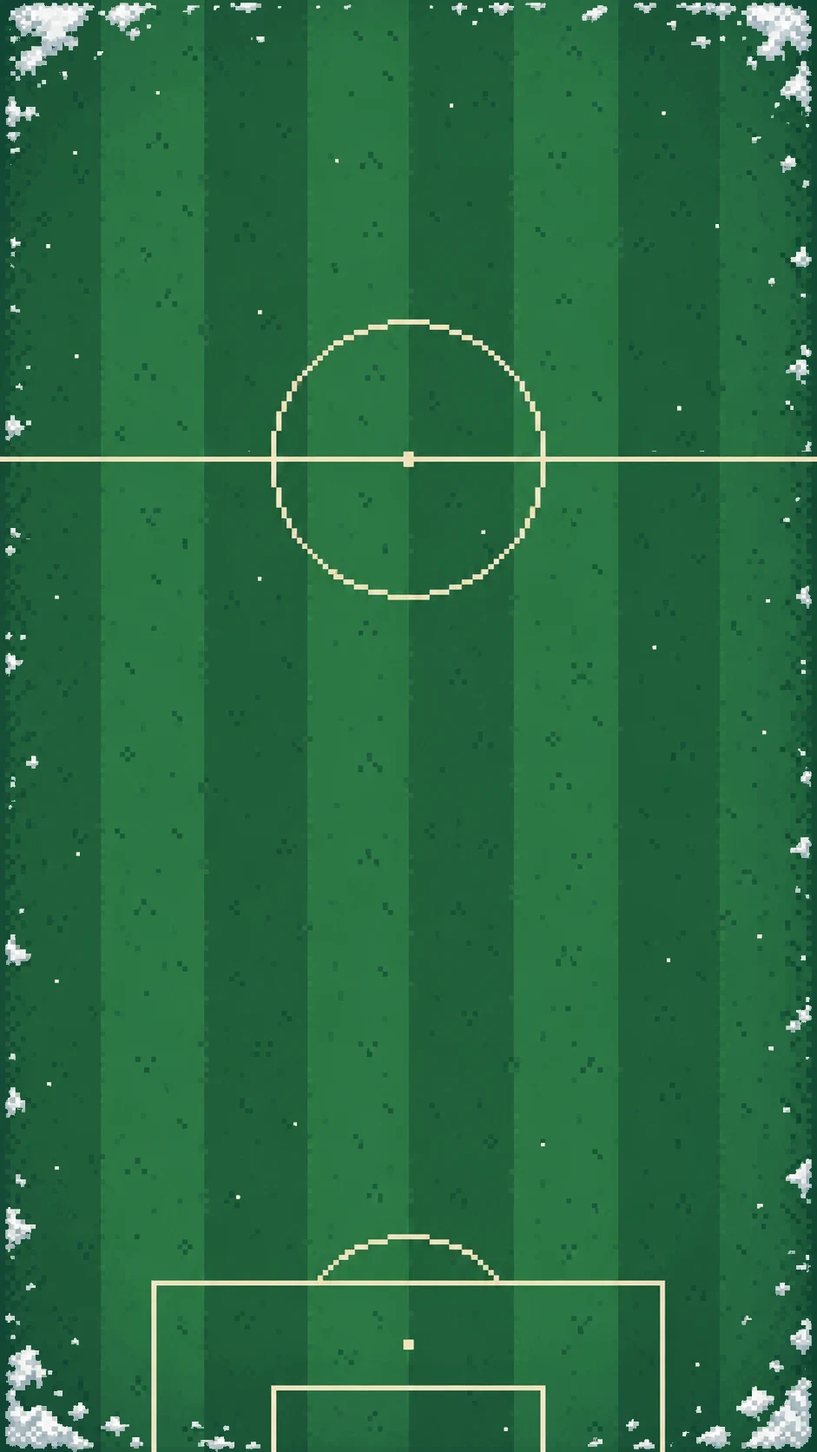
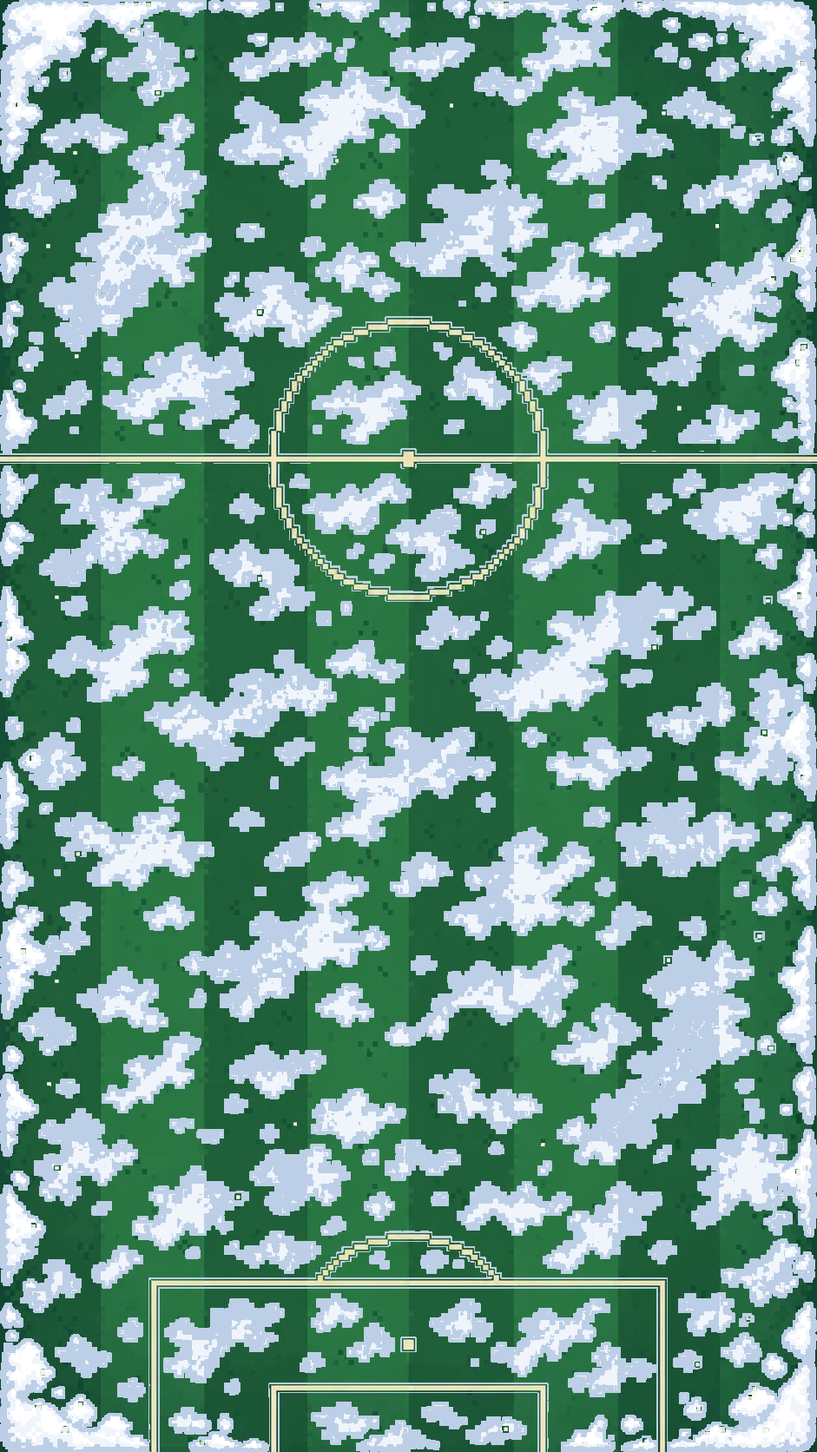
Snowy pitch: new art, default in winter, pick between snowy and plain pitch in Backgrounds
Claude-Session: https://claude.ai/code/session_01B1Ewf1FcmBDPiqTkeHV3Ca

diff --git a/es/index.html b/es/index.html
@@ -7,7 +7,7 @@
   function gtag(){dataLayer.push(arguments);}
   gtag('js', new Date());
 </script>
-<meta charset="utf-8"><meta name="viewport" content="width=device-width,initial-scale=1"><meta name="listdle-verification" content="991c0c59-088a-43e4-ade4-599a885632ee"><script>/* pick the background before first paint, so the old stadium never flashes */(function(){try{var k=new URLSearchParams(location.search).get("bg")||"d-pitch";if(/^[cpsd]-/.test(k)){var d=document.documentElement;d.dataset.bgx=k[0];if(k==="d-pitch"){var t=new Intl.DateTimeFormat("en-CA",{timeZone:"Europe/Amsterdam",year:"numeric",month:"2-digit",day:"2-digit"}).format(new Date()),x=t>="2026-11-24"&&t<="2027-01-06"?"pitch-snow":"pitch";d.style.cssText+=";--w:url(/bg/"+x+"-wide.webp);--t:url(/bg/"+x+"-tall.webp)"}}}catch(e){}})()</script><script>/* Christmas season flag (25 Nov to 6 Jan) */try{var xt=new Intl.DateTimeFormat("en-CA",{timeZone:"Europe/Amsterdam",year:"numeric",month:"2-digit",day:"2-digit"}).format(new Date());if(xt>="2026-11-24"&&xt<="2027-01-06")document.documentElement.classList.add("xm")}catch(e){}</script>
+<meta charset="utf-8"><meta name="viewport" content="width=device-width,initial-scale=1"><meta name="listdle-verification" content="991c0c59-088a-43e4-ade4-599a885632ee"><script>/* pick the background before first paint, so the old stadium never flashes */(function(){try{var k=new URLSearchParams(location.search).get("bg")||"d-pitch";if(/^[cpsd]-/.test(k)){var d=document.documentElement;d.dataset.bgx=k[0];if(k==="d-pitch"){var t=new Intl.DateTimeFormat("en-CA",{timeZone:"Europe/Amsterdam",year:"numeric",month:"2-digit",day:"2-digit"}).format(new Date()),x=t>="2026-11-24"&&t<="2027-01-06"&&localStorage.getItem("uc-pitch")!=="plain"?"pitch-snow":"pitch";d.style.cssText+=";--w:url(/bg/"+x+"-wide.webp);--t:url(/bg/"+x+"-tall.webp)"}}}catch(e){}})()</script><script>/* Christmas season flag (25 Nov to 6 Jan) */try{var xt=new Intl.DateTimeFormat("en-CA",{timeZone:"Europe/Amsterdam",year:"numeric",month:"2-digit",day:"2-digit"}).format(new Date());if(xt>="2026-11-24"&&xt<="2027-01-06")document.documentElement.classList.add("xm")}catch(e){}</script>
 <title>Unicorner – Juego diario de trivia de fútbol | ¿Cuánto sabes de fútbol?</title>
 <meta property="og:type" content="website">
 <meta property="og:site_name" content="Unicorner">
@@ -4379,13 +4379,13 @@ setTimeout(async()=>{if(linkVerify)await linkVerify;renderSlots();syncScore();sy
 const SKY={classic:['linear-gradient(#3f8cff,#9fd2ff)','#5b6a8f','#43a83d'],golden:['linear-gradient(#ff8a50,#ffe0a3)','#8a6a52','#6aa64a'],floodlit:['linear-gradient(#232a6b,#6b3f9a,#ff8f6b)','#4e4f72','#3f9a3a'],night:['linear-gradient(#03061a,#16205a)','#262c45','#2c6e2a'],rain:['linear-gradient(#0d1424,#2c3b55)','#2c3346','#2e5e33'],snow:['linear-gradient(#8c9bb3,#dfe5ee)','#8a91a3','#9fc79a'],neon:['linear-gradient(#12002b,#7a1f8f)','#3d2350','#2a5a3a'],derby:['linear-gradient(#03061a,#16205a)','#4a2430','#2c6e2a'],final:['linear-gradient(#03061a,#16205a)','#5a4a20','#2c6e2a']};
 const LIST=[['classic',L('Classic','Clásico',"Clássico"),0],['golden',L('Golden hour','Hora dorada',"Hora dourada"),1],['floodlit',L('Floodlit evening','Tarde con focos',"Noite com refletores"),3],['night',L('Night match','Partido nocturno',"Jogo noturno"),5],['rain',L('Rainy night','Noche de lluvia',"Noite de chuva"),7],['snow',L('Snow match','Partido con nieve',"Jogo na neve"),10],['neon',L('Unicorn neon','Unicornio neón',"Neon de unicórnio"),15],['derby',L('Derby night','Noche de derbi',"Noite de clássico"),20],['final',L('Cup final','Final de copa',"Final de copa"),30]];
 // more backgrounds (plain colours free; patterns unlock by games played; scenes by best streak): [id, en, es, req, light, css]
-const BGX=[["d-pitch", "Pitch", "Césped", null, 0, "img:pitch"], ["c-cream", "Cream", "Crema", null, 1, "#f3e6bf"], ["c-navy", "Midnight navy", "Azul noche", null, 0, "#12275a"], ["c-pitch", "Pitch green", "Verde césped", null, 0, "#2f7d32"], ["c-red", "Club red", "Rojo club", null, 0, "#a51f27"], ["c-char", "Charcoal", "Carbón", null, 0, "#26232e"], ["c-gold", "Trophy gold", "Oro trofeo", null, 1, "#e0ad2c"], ["p-stripes", "Mowed stripes", "Césped cortado", ["games", 3], 0, "img:pat-mowed-stripes"], ["p-checks", "Cream checks", "Cuadros crema", ["games", 5], 1, "img:pat-cream-checks"], ["p-halftone", "Programme dots", "Puntos de programa", ["games", 10], 1, "img:pat-programme-dots"], ["p-scarf", "Scarf stripes", "Rayas de bufanda", ["games", 15], 0, "img:pat-scarf-stripes"], ["p-grid", "Graph paper", "Papel cuadriculado", ["games", 20], 1, "img:pat-graph-paper"], ["p-tactics", "Tactics board", "Pizarra táctica", ["games", 25], 0, "img:pat-tactics-board"], ["p-terrace", "Concrete terrace", "Grada de cemento", ["games", 30], 0, "img:pat-concrete-terrace"], ["s-sunset", "Stadium sunset", "Estadio al atardecer", ["streak", 2], 0, "img:sunset"], ["s-golden", "Training ground", "Campo de entrenamiento", ["streak", 4], 0, "img:golden"], ["s-rain", "Rainy night", "Noche de lluvia", ["streak", 6], 0, "img:rain"], ["s-snow", "Snow park", "Parque nevado", ["streak", 9], 0, "img:snow"], ["s-floodlit", "Floodlit night", "Noche con focos", ["streak", 12], 0, "img:floodlit"], ["s-street", "Street cage", "Jaula urbana", ["streak", 16], 0, "img:street"], ["s-rooftop", "Rooftop five-a-side", "Fútbol en la azotea", ["streak", 20], 0, "img:rooftop"], ["s-beach", "Beach football", "Fútbol playa", ["streak", 25], 0, "img:beach"], ["s-space", "Space pitch", "Campo espacial", ["streak", 35], 0, "img:space"], ["s-retro", "Retro sunset", "Atardecer retro", ["streak", 50], 0, "img:retro"]];
+const BGX=[["d-pitch", "Pitch", "Césped", null, 0, "img:pitch"], ["d-snow", "Snowy pitch", "Césped nevado", null, 0, "img:pitch-snow"], ["c-cream", "Cream", "Crema", null, 1, "#f3e6bf"], ["c-navy", "Midnight navy", "Azul noche", null, 0, "#12275a"], ["c-pitch", "Pitch green", "Verde césped", null, 0, "#2f7d32"], ["c-red", "Club red", "Rojo club", null, 0, "#a51f27"], ["c-char", "Charcoal", "Carbón", null, 0, "#26232e"], ["c-gold", "Trophy gold", "Oro trofeo", null, 1, "#e0ad2c"], ["p-stripes", "Mowed stripes", "Césped cortado", ["games", 3], 0, "img:pat-mowed-stripes"], ["p-checks", "Cream checks", "Cuadros crema", ["games", 5], 1, "img:pat-cream-checks"], ["p-halftone", "Programme dots", "Puntos de programa", ["games", 10], 1, "img:pat-programme-dots"], ["p-scarf", "Scarf stripes", "Rayas de bufanda", ["games", 15], 0, "img:pat-scarf-stripes"], ["p-grid", "Graph paper", "Papel cuadriculado", ["games", 20], 1, "img:pat-graph-paper"], ["p-tactics", "Tactics board", "Pizarra táctica", ["games", 25], 0, "img:pat-tactics-board"], ["p-terrace", "Concrete terrace", "Grada de cemento", ["games", 30], 0, "img:pat-concrete-terrace"], ["s-sunset", "Stadium sunset", "Estadio al atardecer", ["streak", 2], 0, "img:sunset"], ["s-golden", "Training ground", "Campo de entrenamiento", ["streak", 4], 0, "img:golden"], ["s-rain", "Rainy night", "Noche de lluvia", ["streak", 6], 0, "img:rain"], ["s-snow", "Snow park", "Parque nevado", ["streak", 9], 0, "img:snow"], ["s-floodlit", "Floodlit night", "Noche con focos", ["streak", 12], 0, "img:floodlit"], ["s-street", "Street cage", "Jaula urbana", ["streak", 16], 0, "img:street"], ["s-rooftop", "Rooftop five-a-side", "Fútbol en la azotea", ["streak", 20], 0, "img:rooftop"], ["s-beach", "Beach football", "Fútbol playa", ["streak", 25], 0, "img:beach"], ["s-space", "Space pitch", "Campo espacial", ["streak", 35], 0, "img:space"], ["s-retro", "Retro sunset", "Atardecer retro", ["streak", 50], 0, "img:retro"]];
 // scenes are ChatGPT pictures (bg/NAME-wide.webp and -tall.webp); everything else is plain CSS
 const bgxCss=c=>c.startsWith('img:')?`--w:url(/bg/${c.slice(4)}-wide.webp);--t:url(/bg/${c.slice(4)}-tall.webp)`:'background:'+c;
 const bgxSw=c=>c.startsWith('img:')?`background:#111 url(/bg/${c.slice(4)}-wide.webp) center/cover`:'background:'+c;
 const bgxReq=r=>!r||(r[0]==='games'?kitStats().games:bestStreak())>=r[1];
 const bgxNeed=r=>r[0]==='games'?L(`🎮 ${r[1]} games`,`🎮 ${r[1]} partidas`,`🎮 ${r[1]} jogos`):'<i class="pixel-flame px-inline" aria-hidden="true"></i> '+L(`${r[1]} days`,`${r[1]} días`,`${r[1]} dias`);
-window.ucStageBg=()=>{if(window.__czBg)return `--t:url(${window.__czBg})`;let k='d-pitch';try{k=new URLSearchParams(location.search).get('bg')||ls('uc-bg')||'d-pitch'}catch{}const x=BGX.find(b=>b[0]===k)||BGX[0];return bgxCss(x[5])};
+window.ucStageBg=()=>{if(window.__czBg)return `--t:url(${window.__czBg})`;let k='d-pitch';try{k=new URLSearchParams(location.search).get('bg')||ls('uc-bg')||(typeof XMAS_ON!=='undefined'&&XMAS_ON&&ls('uc-pitch')!=='plain'?'d-snow':'d-pitch')}catch{}const x=BGX.find(b=>b[0]===k)||BGX[0];return bgxCss(x[5])};
 const bgxEl=document.createElement('div');bgxEl.className='bgx';bgxEl.setAttribute('aria-hidden','true');document.querySelector('.scene').after(bgxEl);
 const ls=(k,v)=>{try{if(v===undefined)return localStorage.getItem(k);v==null?localStorage.removeItem(k):localStorage.setItem(k,String(v))}catch{return null}};
 const scene=document.querySelector('.scene'),btn=document.getElementById('stadiumToggle');
@@ -4425,10 +4425,11 @@ window.ucLook=()=>{const st=kitStats();return{kit:UC_KIT?UC_KIT.id:'classic',kit
 let pTab='kits',pkSame=false;
 // favourite kits show first in the Kits tab (saved on this device)
 const kitFavs=()=>{try{const v=JSON.parse(ls('uc-kit-fav')||'[]');return Array.isArray(v)?v:[]}catch{return[]}};
-function apply(){const q=new URLSearchParams(location.search).get('bg');if(!q&&ls('uc-bg'))ls('uc-bg',null);let k=q||'d-pitch';
- if(k!=='classic'&&!q&&!unlocked(k)){ls('uc-bg',null);k='d-pitch'}
+const pitchNow=()=>XMAS_ON&&ls('uc-pitch')!=='plain'?'d-snow':'d-pitch';
+function apply(){const q=new URLSearchParams(location.search).get('bg');if(!q&&ls('uc-bg'))ls('uc-bg',null);let k=q||pitchNow();
+ if(k!=='classic'&&!q&&!unlocked(k)){ls('uc-bg',null);k=pitchNow()}
  const x=BGX.find(b=>b[0]===k),de=document.documentElement;   // a colour, pattern or scene replaces the stadium
- if(x){bgxEl.style.cssText=bgxCss(x[5]);   // cssText: patterns carry background-image/-size after the colour
+ if(x){bgxEl.style.cssText=bgxCss(x[5]);if(x[5].startsWith('img:')){de.style.setProperty('--w',`url(/bg/${x[5].slice(4)}-wide.webp)`);de.style.setProperty('--t',`url(/bg/${x[5].slice(4)}-tall.webp)`)}   // cssText: patterns carry background-image/-size after the colour
   de.dataset.bgx=x[0][0];de.classList.toggle('bg-light',!!x[4]);delete scene.dataset.bg;return}
  bgxEl.style.cssText='';delete de.dataset.bgx;de.classList.remove('bg-light');
  if(k==='classic')delete scene.dataset.bg;else scene.dataset.bg=k}
@@ -4461,7 +4462,7 @@ function openPicker(){const g0=document.querySelector('#st-body .st-grid'),y0=pk
  document.getElementById('st-body').innerHTML=`${close}
   <h2>${L('Pick your background','Elige tu fondo',"Escolha seu fundo")}</h2>${tabs}
   <div class="kit-next ek-note"><h3>${L('Groundworks in progress','Obras en el estadio',"Obras em andamento")}</h3><p>${L("Our groundskeeper got a bit excited with the new lawnmower and flattened every stadium. Only the pitch survived. Shiny new grounds are on the way, we promise. Planning permission pending.","Nuestro jardinero se emocionó con el cortacésped nuevo y se llevó por delante todos los estadios. Solo sobrevivió el césped. Vienen fondos nuevos y mejores, prometido. Falta el permiso de obras.","Nosso jardineiro se empolgou com o cortador de grama novo e achatou todos os estádios. Só o gramado sobreviveu. Estádios novinhos estão a caminho, prometemos. Aguardando alvará.")}</p></div>
-  <div class="st-grid"><button type="button" class="st-tile on" data-st="pick" data-k="d-pitch" aria-label="${L('Pitch, in use','Césped, en uso',"Gramado, em uso")}"><span class="st-sw bgx-sw" style="${bgxSw(px[5]).replace(/"/g,"'")}"></span><span class="st-name">${L('Pitch','Césped',"Gramado")}</span><span class="st-need">${L('✓ In use','✓ En uso',"✓ Em uso")}</span></button></div>`}
+  <div class="st-grid">${(XMAS_ON?['d-snow','d-pitch']:['d-pitch']).map(id=>{const x=BGX.find(t=>t[0]===id),on=id===pitchNow(),n=id==='d-snow'?L('Snowy pitch','Césped nevado',"Gramado com neve"):L('Pitch','Césped',"Gramado");return`<button type="button" class="st-tile${on?' on':''}" data-st="pick" data-k="${id}" aria-label="${n}${on?L(', in use',', en uso',", em uso"):''}"><span class="st-sw bgx-sw" style="${bgxSw(x[5]).replace(/"/g,"'")}"></span><span class="st-name">${n}</span><span class="st-need">${on?L('✓ In use','✓ En uso',"✓ Em uso"):id==='d-snow'?L('Winter only','Solo en invierno',"Só no inverno"):L('All year','Todo el año',"O ano todo")}</span></button>`}).join('')}</div>`}
  {const b=document.getElementById('st-body'),side=document.createElement('div'),main=document.createElement('div');side.className='st-side';main.className='st-main';
   for(const el of [...b.children]){if(el.classList.contains('lg-x'))continue;(el.matches('h2,.pk-tabs,.st-sub,.kit-next,.st-show')?side:main).appendChild(el)}b.append(side,main)}
  if(!dlg.open)dlg.showModal();const g1=document.querySelector('#st-body .st-grid');if(g1)g1.scrollTop=y0;const m1=document.querySelector('#st-body .st-main');if(m1)m1.scrollTop=ym;dlg.scrollTop=d0;track('stadium_open',{best})}
@@ -4475,7 +4476,7 @@ dlg.addEventListener('click',e=>{const b=e.target.closest('[data-st]');if(!b){if
  if(b.dataset.st==='kit'){const k=KITS.find(x=>x.id===b.dataset.k);if(!k)return;if(!kitHas(k,kitStats())){b.animate([{translate:'0'},{translate:'-4px'},{translate:'4px'},{translate:'0'}],{duration:260});return}
   wearKit(k);track('kit_pick',{kit:k.id});pkSame=true;return openPicker()}
  if(b.dataset.st==='pick'){const k=b.dataset.k;if(!unlocked(k)){const x=BGX.find(t=>t[0]===k);showToast(x&&x[3][0]==='games'?L('Keep playing to unlock this one 🎮','Sigue jugando para desbloquear este 🎮',"Continue jogando para desbloquear este 🎮"):L('Keep your streak going to unlock this one 🔥','Mantén tu racha para desbloquear este 🔥',"Mantenha sua sequência para desbloquear este 🔥"));return}
-  ls('uc-bg',k==='d-pitch'?null:k);apply();track('stadium_pick',{bg:k});pkSame=true;openPicker()}});
+  if(k==='d-pitch'||k==='d-snow'){ls('uc-pitch',k==='d-pitch'&&XMAS_ON?'plain':null);ls('uc-bg',null)}else ls('uc-bg',k);apply();track('stadium_pick',{bg:k});pkSame=true;openPicker()}});
 // Kit unlocks get a card pack on the results screen. Each kit has an answer level (same names and colours as scoring).
 const KLV={'xm-reindeer':0,'xm-jumper':1,'xm-snowman':2,'xm-tree':3,'xm-star':3,'xm-santa':4,'hw-stripes':0,'hw-candy':1,'hw-night':2,'hw-slime':3,'hw-skeleton':3,'hw-lantern':4,stripes:0,hoops:0,ref:0,candy:0,keeper:0,sash:1,halves:1,night:1,pin:1,quarters:1,fire:1,shadow:4,checks:2,hat3:2,dots:2,toxic:2,ice:2,perfect:2,leopard:3,zebra:3,galaxy:3,ocean:3,sunset:3,camo:3,lava:3,chrome:4,rainbow:4,tiedye:4,gold:4,mud:0,bee:0,tartan:1,retro:1,straw:2,aurora:3,matrix:3,glitch:3,royal:4,goat:4};
 const KLC=TIER_COLS.concat('#ff7ac8'),KLN=TIERS.map(t=>t[1]).concat('Mythic');window.ucKitInfo={KLV,KLC,KLN};

diff --git a/pt/index.html b/pt/index.html
@@ -7,7 +7,7 @@
   function gtag(){dataLayer.push(arguments);}
   gtag('js', new Date());
 </script>
-<meta charset="utf-8"><meta name="viewport" content="width=device-width,initial-scale=1"><meta name="listdle-verification" content="991c0c59-088a-43e4-ade4-599a885632ee"><script>/* pick the background before first paint, so the old stadium never flashes */(function(){try{var k=new URLSearchParams(location.search).get("bg")||"d-pitch";if(/^[cpsd]-/.test(k)){var d=document.documentElement;d.dataset.bgx=k[0];if(k==="d-pitch"){var t=new Intl.DateTimeFormat("en-CA",{timeZone:"Europe/Amsterdam",year:"numeric",month:"2-digit",day:"2-digit"}).format(new Date()),x=t>="2026-11-24"&&t<="2027-01-06"?"pitch-snow":"pitch";d.style.cssText+=";--w:url(/bg/"+x+"-wide.webp);--t:url(/bg/"+x+"-tall.webp)"}}}catch(e){}})()</script><script>/* Christmas season flag (25 Nov to 6 Jan) */try{var xt=new Intl.DateTimeFormat("en-CA",{timeZone:"Europe/Amsterdam",year:"numeric",month:"2-digit",day:"2-digit"}).format(new Date());if(xt>="2026-11-24"&&xt<="2027-01-06")document.documentElement.classList.add("xm")}catch(e){}</script>
+<meta charset="utf-8"><meta name="viewport" content="width=device-width,initial-scale=1"><meta name="listdle-verification" content="991c0c59-088a-43e4-ade4-599a885632ee"><script>/* pick the background before first paint, so the old stadium never flashes */(function(){try{var k=new URLSearchParams(location.search).get("bg")||"d-pitch";if(/^[cpsd]-/.test(k)){var d=document.documentElement;d.dataset.bgx=k[0];if(k==="d-pitch"){var t=new Intl.DateTimeFormat("en-CA",{timeZone:"Europe/Amsterdam",year:"numeric",month:"2-digit",day:"2-digit"}).format(new Date()),x=t>="2026-11-24"&&t<="2027-01-06"&&localStorage.getItem("uc-pitch")!=="plain"?"pitch-snow":"pitch";d.style.cssText+=";--w:url(/bg/"+x+"-wide.webp);--t:url(/bg/"+x+"-tall.webp)"}}}catch(e){}})()</script><script>/* Christmas season flag (25 Nov to 6 Jan) */try{var xt=new Intl.DateTimeFormat("en-CA",{timeZone:"Europe/Amsterdam",year:"numeric",month:"2-digit",day:"2-digit"}).format(new Date());if(xt>="2026-11-24"&&xt<="2027-01-06")document.documentElement.classList.add("xm")}catch(e){}</script>
 <title>Unicorner – Quiz diário de futebol | Quanto você entende de bola?</title>
 <meta property="og:type" content="website">
 <meta property="og:site_name" content="Unicorner">
@@ -4379,13 +4379,13 @@ setTimeout(async()=>{if(linkVerify)await linkVerify;renderSlots();syncScore();sy
 const SKY={classic:['linear-gradient(#3f8cff,#9fd2ff)','#5b6a8f','#43a83d'],golden:['linear-gradient(#ff8a50,#ffe0a3)','#8a6a52','#6aa64a'],floodlit:['linear-gradient(#232a6b,#6b3f9a,#ff8f6b)','#4e4f72','#3f9a3a'],night:['linear-gradient(#03061a,#16205a)','#262c45','#2c6e2a'],rain:['linear-gradient(#0d1424,#2c3b55)','#2c3346','#2e5e33'],snow:['linear-gradient(#8c9bb3,#dfe5ee)','#8a91a3','#9fc79a'],neon:['linear-gradient(#12002b,#7a1f8f)','#3d2350','#2a5a3a'],derby:['linear-gradient(#03061a,#16205a)','#4a2430','#2c6e2a'],final:['linear-gradient(#03061a,#16205a)','#5a4a20','#2c6e2a']};
 const LIST=[['classic',L('Classic','Clásico',"Clássico"),0],['golden',L('Golden hour','Hora dorada',"Hora dourada"),1],['floodlit',L('Floodlit evening','Tarde con focos',"Noite com refletores"),3],['night',L('Night match','Partido nocturno',"Jogo noturno"),5],['rain',L('Rainy night','Noche de lluvia',"Noite de chuva"),7],['snow',L('Snow match','Partido con nieve',"Jogo na neve"),10],['neon',L('Unicorn neon','Unicornio neón',"Neon de unicórnio"),15],['derby',L('Derby night','Noche de derbi',"Noite de clássico"),20],['final',L('Cup final','Final de copa',"Final de copa"),30]];
 // more backgrounds (plain colours free; patterns unlock by games played; scenes by best streak): [id, en, es, req, light, css]
-const BGX=[["d-pitch", "Pitch", "Césped", null, 0, "img:pitch"], ["c-cream", "Cream", "Crema", null, 1, "#f3e6bf"], ["c-navy", "Midnight navy", "Azul noche", null, 0, "#12275a"], ["c-pitch", "Pitch green", "Verde césped", null, 0, "#2f7d32"], ["c-red", "Club red", "Rojo club", null, 0, "#a51f27"], ["c-char", "Charcoal", "Carbón", null, 0, "#26232e"], ["c-gold", "Trophy gold", "Oro trofeo", null, 1, "#e0ad2c"], ["p-stripes", "Mowed stripes", "Césped cortado", ["games", 3], 0, "img:pat-mowed-stripes"], ["p-checks", "Cream checks", "Cuadros crema", ["games", 5], 1, "img:pat-cream-checks"], ["p-halftone", "Programme dots", "Puntos de programa", ["games", 10], 1, "img:pat-programme-dots"], ["p-scarf", "Scarf stripes", "Rayas de bufanda", ["games", 15], 0, "img:pat-scarf-stripes"], ["p-grid", "Graph paper", "Papel cuadriculado", ["games", 20], 1, "img:pat-graph-paper"], ["p-tactics", "Tactics board", "Pizarra táctica", ["games", 25], 0, "img:pat-tactics-board"], ["p-terrace", "Concrete terrace", "Grada de cemento", ["games", 30], 0, "img:pat-concrete-terrace"], ["s-sunset", "Stadium sunset", "Estadio al atardecer", ["streak", 2], 0, "img:sunset"], ["s-golden", "Training ground", "Campo de entrenamiento", ["streak", 4], 0, "img:golden"], ["s-rain", "Rainy night", "Noche de lluvia", ["streak", 6], 0, "img:rain"], ["s-snow", "Snow park", "Parque nevado", ["streak", 9], 0, "img:snow"], ["s-floodlit", "Floodlit night", "Noche con focos", ["streak", 12], 0, "img:floodlit"], ["s-street", "Street cage", "Jaula urbana", ["streak", 16], 0, "img:street"], ["s-rooftop", "Rooftop five-a-side", "Fútbol en la azotea", ["streak", 20], 0, "img:rooftop"], ["s-beach", "Beach football", "Fútbol playa", ["streak", 25], 0, "img:beach"], ["s-space", "Space pitch", "Campo espacial", ["streak", 35], 0, "img:space"], ["s-retro", "Retro sunset", "Atardecer retro", ["streak", 50], 0, "img:retro"]];
+const BGX=[["d-pitch", "Pitch", "Césped", null, 0, "img:pitch"], ["d-snow", "Snowy pitch", "Césped nevado", null, 0, "img:pitch-snow"], ["c-cream", "Cream", "Crema", null, 1, "#f3e6bf"], ["c-navy", "Midnight navy", "Azul noche", null, 0, "#12275a"], ["c-pitch", "Pitch green", "Verde césped", null, 0, "#2f7d32"], ["c-red", "Club red", "Rojo club", null, 0, "#a51f27"], ["c-char", "Charcoal", "Carbón", null, 0, "#26232e"], ["c-gold", "Trophy gold", "Oro trofeo", null, 1, "#e0ad2c"], ["p-stripes", "Mowed stripes", "Césped cortado", ["games", 3], 0, "img:pat-mowed-stripes"], ["p-checks", "Cream checks", "Cuadros crema", ["games", 5], 1, "img:pat-cream-checks"], ["p-halftone", "Programme dots", "Puntos de programa", ["games", 10], 1, "img:pat-programme-dots"], ["p-scarf", "Scarf stripes", "Rayas de bufanda", ["games", 15], 0, "img:pat-scarf-stripes"], ["p-grid", "Graph paper", "Papel cuadriculado", ["games", 20], 1, "img:pat-graph-paper"], ["p-tactics", "Tactics board", "Pizarra táctica", ["games", 25], 0, "img:pat-tactics-board"], ["p-terrace", "Concrete terrace", "Grada de cemento", ["games", 30], 0, "img:pat-concrete-terrace"], ["s-sunset", "Stadium sunset", "Estadio al atardecer", ["streak", 2], 0, "img:sunset"], ["s-golden", "Training ground", "Campo de entrenamiento", ["streak", 4], 0, "img:golden"], ["s-rain", "Rainy night", "Noche de lluvia", ["streak", 6], 0, "img:rain"], ["s-snow", "Snow park", "Parque nevado", ["streak", 9], 0, "img:snow"], ["s-floodlit", "Floodlit night", "Noche con focos", ["streak", 12], 0, "img:floodlit"], ["s-street", "Street cage", "Jaula urbana", ["streak", 16], 0, "img:street"], ["s-rooftop", "Rooftop five-a-side", "Fútbol en la azotea", ["streak", 20], 0, "img:rooftop"], ["s-beach", "Beach football", "Fútbol playa", ["streak", 25], 0, "img:beach"], ["s-space", "Space pitch", "Campo espacial", ["streak", 35], 0, "img:space"], ["s-retro", "Retro sunset", "Atardecer retro", ["streak", 50], 0, "img:retro"]];
 // scenes are ChatGPT pictures (bg/NAME-wide.webp and -tall.webp); everything else is plain CSS
 const bgxCss=c=>c.startsWith('img:')?`--w:url(/bg/${c.slice(4)}-wide.webp);--t:url(/bg/${c.slice(4)}-tall.webp)`:'background:'+c;
 const bgxSw=c=>c.startsWith('img:')?`background:#111 url(/bg/${c.slice(4)}-wide.webp) center/cover`:'background:'+c;
 const bgxReq=r=>!r||(r[0]==='games'?kitStats().games:bestStreak())>=r[1];
 const bgxNeed=r=>r[0]==='games'?L(`🎮 ${r[1]} games`,`🎮 ${r[1]} partidas`,`🎮 ${r[1]} jogos`):'<i class="pixel-flame px-inline" aria-hidden="true"></i> '+L(`${r[1]} days`,`${r[1]} días`,`${r[1]} dias`);
-window.ucStageBg=()=>{if(window.__czBg)return `--t:url(${window.__czBg})`;let k='d-pitch';try{k=new URLSearchParams(location.search).get('bg')||ls('uc-bg')||'d-pitch'}catch{}const x=BGX.find(b=>b[0]===k)||BGX[0];return bgxCss(x[5])};
+window.ucStageBg=()=>{if(window.__czBg)return `--t:url(${window.__czBg})`;let k='d-pitch';try{k=new URLSearchParams(location.search).get('bg')||ls('uc-bg')||(typeof XMAS_ON!=='undefined'&&XMAS_ON&&ls('uc-pitch')!=='plain'?'d-snow':'d-pitch')}catch{}const x=BGX.find(b=>b[0]===k)||BGX[0];return bgxCss(x[5])};
 const bgxEl=document.createElement('div');bgxEl.className='bgx';bgxEl.setAttribute('aria-hidden','true');document.querySelector('.scene').after(bgxEl);
 const ls=(k,v)=>{try{if(v===undefined)return localStorage.getItem(k);v==null?localStorage.removeItem(k):localStorage.setItem(k,String(v))}catch{return null}};
 const scene=document.querySelector('.scene'),btn=document.getElementById('stadiumToggle');
@@ -4425,10 +4425,11 @@ window.ucLook=()=>{const st=kitStats();return{kit:UC_KIT?UC_KIT.id:'classic',kit
 let pTab='kits',pkSame=false;
 // favourite kits show first in the Kits tab (saved on this device)
 const kitFavs=()=>{try{const v=JSON.parse(ls('uc-kit-fav')||'[]');return Array.isArray(v)?v:[]}catch{return[]}};
-function apply(){const q=new URLSearchParams(location.search).get('bg');if(!q&&ls('uc-bg'))ls('uc-bg',null);let k=q||'d-pitch';
- if(k!=='classic'&&!q&&!unlocked(k)){ls('uc-bg',null);k='d-pitch'}
+const pitchNow=()=>XMAS_ON&&ls('uc-pitch')!=='plain'?'d-snow':'d-pitch';
+function apply(){const q=new URLSearchParams(location.search).get('bg');if(!q&&ls('uc-bg'))ls('uc-bg',null);let k=q||pitchNow();
+ if(k!=='classic'&&!q&&!unlocked(k)){ls('uc-bg',null);k=pitchNow()}
  const x=BGX.find(b=>b[0]===k),de=document.documentElement;   // a colour, pattern or scene replaces the stadium
- if(x){bgxEl.style.cssText=bgxCss(x[5]);   // cssText: patterns carry background-image/-size after the colour
+ if(x){bgxEl.style.cssText=bgxCss(x[5]);if(x[5].startsWith('img:')){de.style.setProperty('--w',`url(/bg/${x[5].slice(4)}-wide.webp)`);de.style.setProperty('--t',`url(/bg/${x[5].slice(4)}-tall.webp)`)}   // cssText: patterns carry background-image/-size after the colour
   de.dataset.bgx=x[0][0];de.classList.toggle('bg-light',!!x[4]);delete scene.dataset.bg;return}
  bgxEl.style.cssText='';delete de.dataset.bgx;de.classList.remove('bg-light');
  if(k==='classic')delete scene.dataset.bg;else scene.dataset.bg=k}
@@ -4461,7 +4462,7 @@ function openPicker(){const g0=document.querySelector('#st-body .st-grid'),y0=pk
  document.getElementById('st-body').innerHTML=`${close}
   <h2>${L('Pick your background','Elige tu fondo',"Escolha seu fundo")}</h2>${tabs}
   <div class="kit-next ek-note"><h3>${L('Groundworks in progress','Obras en el estadio',"Obras em andamento")}</h3><p>${L("Our groundskeeper got a bit excited with the new lawnmower and flattened every stadium. Only the pitch survived. Shiny new grounds are on the way, we promise. Planning permission pending.","Nuestro jardinero se emocionó con el cortacésped nuevo y se llevó por delante todos los estadios. Solo sobrevivió el césped. Vienen fondos nuevos y mejores, prometido. Falta el permiso de obras.","Nosso jardineiro se empolgou com o cortador de grama novo e achatou todos os estádios. Só o gramado sobreviveu. Estádios novinhos estão a caminho, prometemos. Aguardando alvará.")}</p></div>
-  <div class="st-grid"><button type="button" class="st-tile on" data-st="pick" data-k="d-pitch" aria-label="${L('Pitch, in use','Césped, en uso',"Gramado, em uso")}"><span class="st-sw bgx-sw" style="${bgxSw(px[5]).replace(/"/g,"'")}"></span><span class="st-name">${L('Pitch','Césped',"Gramado")}</span><span class="st-need">${L('✓ In use','✓ En uso',"✓ Em uso")}</span></button></div>`}
+  <div class="st-grid">${(XMAS_ON?['d-snow','d-pitch']:['d-pitch']).map(id=>{const x=BGX.find(t=>t[0]===id),on=id===pitchNow(),n=id==='d-snow'?L('Snowy pitch','Césped nevado',"Gramado com neve"):L('Pitch','Césped',"Gramado");return`<button type="button" class="st-tile${on?' on':''}" data-st="pick" data-k="${id}" aria-label="${n}${on?L(', in use',', en uso',", em uso"):''}"><span class="st-sw bgx-sw" style="${bgxSw(x[5]).replace(/"/g,"'")}"></span><span class="st-name">${n}</span><span class="st-need">${on?L('✓ In use','✓ En uso',"✓ Em uso"):id==='d-snow'?L('Winter only','Solo en invierno',"Só no inverno"):L('All year','Todo el año',"O ano todo")}</span></button>`}).join('')}</div>`}
  {const b=document.getElementById('st-body'),side=document.createElement('div'),main=document.createElement('div');side.className='st-side';main.className='st-main';
   for(const el of [...b.children]){if(el.classList.contains('lg-x'))continue;(el.matches('h2,.pk-tabs,.st-sub,.kit-next,.st-show')?side:main).appendChild(el)}b.append(side,main)}
  if(!dlg.open)dlg.showModal();const g1=document.querySelector('#st-body .st-grid');if(g1)g1.scrollTop=y0;const m1=document.querySelector('#st-body .st-main');if(m1)m1.scrollTop=ym;dlg.scrollTop=d0;track('stadium_open',{best})}
@@ -4475,7 +4476,7 @@ dlg.addEventListener('click',e=>{const b=e.target.closest('[data-st]');if(!b){if
  if(b.dataset.st==='kit'){const k=KITS.find(x=>x.id===b.dataset.k);if(!k)return;if(!kitHas(k,kitStats())){b.animate([{translate:'0'},{translate:'-4px'},{translate:'4px'},{translate:'0'}],{duration:260});return}
   wearKit(k);track('kit_pick',{kit:k.id});pkSame=true;return openPicker()}
  if(b.dataset.st==='pick'){const k=b.dataset.k;if(!unlocked(k)){const x=BGX.find(t=>t[0]===k);showToast(x&&x[3][0]==='games'?L('Keep playing to unlock this one 🎮','Sigue jugando para desbloquear este 🎮',"Continue jogando para desbloquear este 🎮"):L('Keep your streak going to unlock this one 🔥','Mantén tu racha para desbloquear este 🔥',"Mantenha sua sequência para desbloquear este 🔥"));return}
-  ls('uc-bg',k==='d-pitch'?null:k);apply();track('stadium_pick',{bg:k});pkSame=true;openPicker()}});
+  if(k==='d-pitch'||k==='d-snow'){ls('uc-pitch',k==='d-pitch'&&XMAS_ON?'plain':null);ls('uc-bg',null)}else ls('uc-bg',k);apply();track('stadium_pick',{bg:k});pkSame=true;openPicker()}});
 // Kit unlocks get a card pack on the results screen. Each kit has an answer level (same names and colours as scoring).
 const KLV={'xm-reindeer':0,'xm-jumper':1,'xm-snowman':2,'xm-tree':3,'xm-star':3,'xm-santa':4,'hw-stripes':0,'hw-candy':1,'hw-night':2,'hw-slime':3,'hw-skeleton':3,'hw-lantern':4,stripes:0,hoops:0,ref:0,candy:0,keeper:0,sash:1,halves:1,night:1,pin:1,quarters:1,fire:1,shadow:4,checks:2,hat3:2,dots:2,toxic:2,ice:2,perfect:2,leopard:3,zebra:3,galaxy:3,ocean:3,sunset:3,camo:3,lava:3,chrome:4,rainbow:4,tiedye:4,gold:4,mud:0,bee:0,tartan:1,retro:1,straw:2,aurora:3,matrix:3,glitch:3,royal:4,goat:4};
 const KLC=TIER_COLS.concat('#ff7ac8'),KLN=TIERS.map(t=>t[1]).concat('Mythic');window.ucKitInfo={KLV,KLC,KLN};

diff --git a/index.html b/index.html
@@ -5,7 +5,7 @@
   function gtag(){dataLayer.push(arguments);}
   gtag('js', new Date());
 </script>
-<meta charset="utf-8"><meta name="viewport" content="width=device-width,initial-scale=1"><meta name="listdle-verification" content="991c0c59-088a-43e4-ade4-599a885632ee"><script>/* pick the background before first paint, so the old stadium never flashes */(function(){try{var k=new URLSearchParams(location.search).get("bg")||"d-pitch";if(/^[cpsd]-/.test(k)){var d=document.documentElement;d.dataset.bgx=k[0];if(k==="d-pitch"){var t=new Intl.DateTimeFormat("en-CA",{timeZone:"Europe/Amsterdam",year:"numeric",month:"2-digit",day:"2-digit"}).format(new Date()),x=t>="2026-11-24"&&t<="2027-01-06"?"pitch-snow":"pitch";d.style.cssText+=";--w:url(/bg/"+x+"-wide.webp);--t:url(/bg/"+x+"-tall.webp)"}}}catch(e){}})()</script><script>/* Christmas season flag (25 Nov to 6 Jan) */try{var xt=new Intl.DateTimeFormat("en-CA",{timeZone:"Europe/Amsterdam",year:"numeric",month:"2-digit",day:"2-digit"}).format(new Date());if(xt>="2026-11-24"&&xt<="2027-01-06")document.documentElement.classList.add("xm")}catch(e){}</script>
+<meta charset="utf-8"><meta name="viewport" content="width=device-width,initial-scale=1"><meta name="listdle-verification" content="991c0c59-088a-43e4-ade4-599a885632ee"><script>/* pick the background before first paint, so the old stadium never flashes */(function(){try{var k=new URLSearchParams(location.search).get("bg")||"d-pitch";if(/^[cpsd]-/.test(k)){var d=document.documentElement;d.dataset.bgx=k[0];if(k==="d-pitch"){var t=new Intl.DateTimeFormat("en-CA",{timeZone:"Europe/Amsterdam",year:"numeric",month:"2-digit",day:"2-digit"}).format(new Date()),x=t>="2026-11-24"&&t<="2027-01-06"&&localStorage.getItem("uc-pitch")!=="plain"?"pitch-snow":"pitch";d.style.cssText+=";--w:url(/bg/"+x+"-wide.webp);--t:url(/bg/"+x+"-tall.webp)"}}}catch(e){}})()</script><script>/* Christmas season flag (25 Nov to 6 Jan) */try{var xt=new Intl.DateTimeFormat("en-CA",{timeZone:"Europe/Amsterdam",year:"numeric",month:"2-digit",day:"2-digit"}).format(new Date());if(xt>="2026-11-24"&&xt<="2027-01-06")document.documentElement.classList.add("xm")}catch(e){}</script>
 <title>Unicorner: Daily Football Trivia Game &amp; Football Quiz</title>
 <meta property="og:type" content="website">
 <meta property="og:site_name" content="Unicorner">
@@ -4377,13 +4377,13 @@ setTimeout(async()=>{if(linkVerify)await linkVerify;renderSlots();syncScore();sy
 const SKY={classic:['linear-gradient(#3f8cff,#9fd2ff)','#5b6a8f','#43a83d'],golden:['linear-gradient(#ff8a50,#ffe0a3)','#8a6a52','#6aa64a'],floodlit:['linear-gradient(#232a6b,#6b3f9a,#ff8f6b)','#4e4f72','#3f9a3a'],night:['linear-gradient(#03061a,#16205a)','#262c45','#2c6e2a'],rain:['linear-gradient(#0d1424,#2c3b55)','#2c3346','#2e5e33'],snow:['linear-gradient(#8c9bb3,#dfe5ee)','#8a91a3','#9fc79a'],neon:['linear-gradient(#12002b,#7a1f8f)','#3d2350','#2a5a3a'],derby:['linear-gradient(#03061a,#16205a)','#4a2430','#2c6e2a'],final:['linear-gradient(#03061a,#16205a)','#5a4a20','#2c6e2a']};
 const LIST=[['classic',L('Classic','Clásico',"Clássico"),0],['golden',L('Golden hour','Hora dorada',"Hora dourada"),1],['floodlit',L('Floodlit evening','Tarde con focos',"Noite com refletores"),3],['night',L('Night match','Partido nocturno',"Jogo noturno"),5],['rain',L('Rainy night','Noche de lluvia',"Noite de chuva"),7],['snow',L('Snow match','Partido con nieve',"Jogo na neve"),10],['neon',L('Unicorn neon','Unicornio neón',"Neon de unicórnio"),15],['derby',L('Derby night','Noche de derbi',"Noite de clássico"),20],['final',L('Cup final','Final de copa',"Final de copa"),30]];
 // more backgrounds (plain colours free; patterns unlock by games played; scenes by best streak): [id, en, es, req, light, css]
-const BGX=[["d-pitch", "Pitch", "Césped", null, 0, "img:pitch"], ["c-cream", "Cream", "Crema", null, 1, "#f3e6bf"], ["c-navy", "Midnight navy", "Azul noche", null, 0, "#12275a"], ["c-pitch", "Pitch green", "Verde césped", null, 0, "#2f7d32"], ["c-red", "Club red", "Rojo club", null, 0, "#a51f27"], ["c-char", "Charcoal", "Carbón", null, 0, "#26232e"], ["c-gold", "Trophy gold", "Oro trofeo", null, 1, "#e0ad2c"], ["p-stripes", "Mowed stripes", "Césped cortado", ["games", 3], 0, "img:pat-mowed-stripes"], ["p-checks", "Cream checks", "Cuadros crema", ["games", 5], 1, "img:pat-cream-checks"], ["p-halftone", "Programme dots", "Puntos de programa", ["games", 10], 1, "img:pat-programme-dots"], ["p-scarf", "Scarf stripes", "Rayas de bufanda", ["games", 15], 0, "img:pat-scarf-stripes"], ["p-grid", "Graph paper", "Papel cuadriculado", ["games", 20], 1, "img:pat-graph-paper"], ["p-tactics", "Tactics board", "Pizarra táctica", ["games", 25], 0, "img:pat-tactics-board"], ["p-terrace", "Concrete terrace", "Grada de cemento", ["games", 30], 0, "img:pat-concrete-terrace"], ["s-sunset", "Stadium sunset", "Estadio al atardecer", ["streak", 2], 0, "img:sunset"], ["s-golden", "Training ground", "Campo de entrenamiento", ["streak", 4], 0, "img:golden"], ["s-rain", "Rainy night", "Noche de lluvia", ["streak", 6], 0, "img:rain"], ["s-snow", "Snow park", "Parque nevado", ["streak", 9], 0, "img:snow"], ["s-floodlit", "Floodlit night", "Noche con focos", ["streak", 12], 0, "img:floodlit"], ["s-street", "Street cage", "Jaula urbana", ["streak", 16], 0, "img:street"], ["s-rooftop", "Rooftop five-a-side", "Fútbol en la azotea", ["streak", 20], 0, "img:rooftop"], ["s-beach", "Beach football", "Fútbol playa", ["streak", 25], 0, "img:beach"], ["s-space", "Space pitch", "Campo espacial", ["streak", 35], 0, "img:space"], ["s-retro", "Retro sunset", "Atardecer retro", ["streak", 50], 0, "img:retro"]];
+const BGX=[["d-pitch", "Pitch", "Césped", null, 0, "img:pitch"], ["d-snow", "Snowy pitch", "Césped nevado", null, 0, "img:pitch-snow"], ["c-cream", "Cream", "Crema", null, 1, "#f3e6bf"], ["c-navy", "Midnight navy", "Azul noche", null, 0, "#12275a"], ["c-pitch", "Pitch green", "Verde césped", null, 0, "#2f7d32"], ["c-red", "Club red", "Rojo club", null, 0, "#a51f27"], ["c-char", "Charcoal", "Carbón", null, 0, "#26232e"], ["c-gold", "Trophy gold", "Oro trofeo", null, 1, "#e0ad2c"], ["p-stripes", "Mowed stripes", "Césped cortado", ["games", 3], 0, "img:pat-mowed-stripes"], ["p-checks", "Cream checks", "Cuadros crema", ["games", 5], 1, "img:pat-cream-checks"], ["p-halftone", "Programme dots", "Puntos de programa", ["games", 10], 1, "img:pat-programme-dots"], ["p-scarf", "Scarf stripes", "Rayas de bufanda", ["games", 15], 0, "img:pat-scarf-stripes"], ["p-grid", "Graph paper", "Papel cuadriculado", ["games", 20], 1, "img:pat-graph-paper"], ["p-tactics", "Tactics board", "Pizarra táctica", ["games", 25], 0, "img:pat-tactics-board"], ["p-terrace", "Concrete terrace", "Grada de cemento", ["games", 30], 0, "img:pat-concrete-terrace"], ["s-sunset", "Stadium sunset", "Estadio al atardecer", ["streak", 2], 0, "img:sunset"], ["s-golden", "Training ground", "Campo de entrenamiento", ["streak", 4], 0, "img:golden"], ["s-rain", "Rainy night", "Noche de lluvia", ["streak", 6], 0, "img:rain"], ["s-snow", "Snow park", "Parque nevado", ["streak", 9], 0, "img:snow"], ["s-floodlit", "Floodlit night", "Noche con focos", ["streak", 12], 0, "img:floodlit"], ["s-street", "Street cage", "Jaula urbana", ["streak", 16], 0, "img:street"], ["s-rooftop", "Rooftop five-a-side", "Fútbol en la azotea", ["streak", 20], 0, "img:rooftop"], ["s-beach", "Beach football", "Fútbol playa", ["streak", 25], 0, "img:beach"], ["s-space", "Space pitch", "Campo espacial", ["streak", 35], 0, "img:space"], ["s-retro", "Retro sunset", "Atardecer retro", ["streak", 50], 0, "img:retro"]];
 // scenes are ChatGPT pictures (bg/NAME-wide.webp and -tall.webp); everything else is plain CSS
 const bgxCss=c=>c.startsWith('img:')?`--w:url(/bg/${c.slice(4)}-wide.webp);--t:url(/bg/${c.slice(4)}-tall.webp)`:'background:'+c;
 const bgxSw=c=>c.startsWith('img:')?`background:#111 url(/bg/${c.slice(4)}-wide.webp) center/cover`:'background:'+c;
 const bgxReq=r=>!r||(r[0]==='games'?kitStats().games:bestStreak())>=r[1];
 const bgxNeed=r=>r[0]==='games'?L(`🎮 ${r[1]} games`,`🎮 ${r[1]} partidas`,`🎮 ${r[1]} jogos`):'<i class="pixel-flame px-inline" aria-hidden="true"></i> '+L(`${r[1]} days`,`${r[1]} días`,`${r[1]} dias`);
-window.ucStageBg=()=>{if(window.__czBg)return `--t:url(${window.__czBg})`;let k='d-pitch';try{k=new URLSearchParams(location.search).get('bg')||ls('uc-bg')||'d-pitch'}catch{}const x=BGX.find(b=>b[0]===k)||BGX[0];return bgxCss(x[5])};
+window.ucStageBg=()=>{if(window.__czBg)return `--t:url(${window.__czBg})`;let k='d-pitch';try{k=new URLSearchParams(location.search).get('bg')||ls('uc-bg')||(typeof XMAS_ON!=='undefined'&&XMAS_ON&&ls('uc-pitch')!=='plain'?'d-snow':'d-pitch')}catch{}const x=BGX.find(b=>b[0]===k)||BGX[0];return bgxCss(x[5])};
 const bgxEl=document.createElement('div');bgxEl.className='bgx';bgxEl.setAttribute('aria-hidden','true');document.querySelector('.scene').after(bgxEl);
 const ls=(k,v)=>{try{if(v===undefined)return localStorage.getItem(k);v==null?localStorage.removeItem(k):localStorage.setItem(k,String(v))}catch{return null}};
 const scene=document.querySelector('.scene'),btn=document.getElementById('stadiumToggle');
@@ -4423,10 +4423,11 @@ window.ucLook=()=>{const st=kitStats();return{kit:UC_KIT?UC_KIT.id:'classic',kit
 let pTab='kits',pkSame=false;
 // favourite kits show first in the Kits tab (saved on this device)
 const kitFavs=()=>{try{const v=JSON.parse(ls('uc-kit-fav')||'[]');return Array.isArray(v)?v:[]}catch{return[]}};
-function apply(){const q=new URLSearchParams(location.search).get('bg');if(!q&&ls('uc-bg'))ls('uc-bg',null);let k=q||'d-pitch';
- if(k!=='classic'&&!q&&!unlocked(k)){ls('uc-bg',null);k='d-pitch'}
+const pitchNow=()=>XMAS_ON&&ls('uc-pitch')!=='plain'?'d-snow':'d-pitch';
+function apply(){const q=new URLSearchParams(location.search).get('bg');if(!q&&ls('uc-bg'))ls('uc-bg',null);let k=q||pitchNow();
+ if(k!=='classic'&&!q&&!unlocked(k)){ls('uc-bg',null);k=pitchNow()}
  const x=BGX.find(b=>b[0]===k),de=document.documentElement;   // a colour, pattern or scene replaces the stadium
- if(x){bgxEl.style.cssText=bgxCss(x[5]);   // cssText: patterns carry background-image/-size after the colour
+ if(x){bgxEl.style.cssText=bgxCss(x[5]);if(x[5].startsWith('img:')){de.style.setProperty('--w',`url(/bg/${x[5].slice(4)}-wide.webp)`);de.style.setProperty('--t',`url(/bg/${x[5].slice(4)}-tall.webp)`)}   // cssText: patterns carry background-image/-size after the colour
   de.dataset.bgx=x[0][0];de.classList.toggle('bg-light',!!x[4]);delete scene.dataset.bg;return}
  bgxEl.style.cssText='';delete de.dataset.bgx;de.classList.remove('bg-light');
  if(k==='classic')delete scene.dataset.bg;else scene.dataset.bg=k}
@@ -4459,7 +4460,7 @@ function openPicker(){const g0=document.querySelector('#st-body .st-grid'),y0=pk
  document.getElementById('st-body').innerHTML=`${close}
   <h2>${L('Pick your background','Elige tu fondo',"Escolha seu fundo")}</h2>${tabs}
   <div class="kit-next ek-note"><h3>${L('Groundworks in progress','Obras en el estadio',"Obras em andamento")}</h3><p>${L("Our groundskeeper got a bit excited with the new lawnmower and flattened every stadium. Only the pitch survived. Shiny new grounds are on the way, we promise. Planning permission pending.","Nuestro jardinero se emocionó con el cortacésped nuevo y se llevó por delante todos los estadios. Solo sobrevivió el césped. Vienen fondos nuevos y mejores, prometido. Falta el permiso de obras.","Nosso jardineiro se empolgou com o cortador de grama novo e achatou todos os estádios. Só o gramado sobreviveu. Estádios novinhos estão a caminho, prometemos. Aguardando alvará.")}</p></div>
-  <div class="st-grid"><button type="button" class="st-tile on" data-st="pick" data-k="d-pitch" aria-label="${L('Pitch, in use','Césped, en uso',"Gramado, em uso")}"><span class="st-sw bgx-sw" style="${bgxSw(px[5]).replace(/"/g,"'")}"></span><span class="st-name">${L('Pitch','Césped',"Gramado")}</span><span class="st-need">${L('✓ In use','✓ En uso',"✓ Em uso")}</span></button></div>`}
+  <div class="st-grid">${(XMAS_ON?['d-snow','d-pitch']:['d-pitch']).map(id=>{const x=BGX.find(t=>t[0]===id),on=id===pitchNow(),n=id==='d-snow'?L('Snowy pitch','Césped nevado',"Gramado com neve"):L('Pitch','Césped',"Gramado");return`<button type="button" class="st-tile${on?' on':''}" data-st="pick" data-k="${id}" aria-label="${n}${on?L(', in use',', en uso',", em uso"):''}"><span class="st-sw bgx-sw" style="${bgxSw(x[5]).replace(/"/g,"'")}"></span><span class="st-name">${n}</span><span class="st-need">${on?L('✓ In use','✓ En uso',"✓ Em uso"):id==='d-snow'?L('Winter only','Solo en invierno',"Só no inverno"):L('All year','Todo el año',"O ano todo")}</span></button>`}).join('')}</div>`}
  {const b=document.getElementById('st-body'),side=document.createElement('div'),main=document.createElement('div');side.className='st-side';main.className='st-main';
   for(const el of [...b.children]){if(el.classList.contains('lg-x'))continue;(el.matches('h2,.pk-tabs,.st-sub,.kit-next,.st-show')?side:main).appendChild(el)}b.append(side,main)}
  if(!dlg.open)dlg.showModal();const g1=document.querySelector('#st-body .st-grid');if(g1)g1.scrollTop=y0;const m1=document.querySelector('#st-body .st-main');if(m1)m1.scrollTop=ym;dlg.scrollTop=d0;track('stadium_open',{best})}
@@ -4473,7 +4474,7 @@ dlg.addEventListener('click',e=>{const b=e.target.closest('[data-st]');if(!b){if
  if(b.dataset.st==='kit'){const k=KITS.find(x=>x.id===b.dataset.k);if(!k)return;if(!kitHas(k,kitStats())){b.animate([{translate:'0'},{translate:'-4px'},{translate:'4px'},{translate:'0'}],{duration:260});return}
   wearKit(k);track('kit_pick',{kit:k.id});pkSame=true;return openPicker()}
  if(b.dataset.st==='pick'){const k=b.dataset.k;if(!unlocked(k)){const x=BGX.find(t=>t[0]===k);showToast(x&&x[3][0]==='games'?L('Keep playing to unlock this one 🎮','Sigue jugando para desbloquear este 🎮',"Continue jogando para desbloquear este 🎮"):L('Keep your streak going to unlock this one 🔥','Mantén tu racha para desbloquear este 🔥',"Mantenha sua sequência para desbloquear este 🔥"));return}
-  ls('uc-bg',k==='d-pitch'?null:k);apply();track('stadium_pick',{bg:k});pkSame=true;openPicker()}});
+  if(k==='d-pitch'||k==='d-snow'){ls('uc-pitch',k==='d-pitch'&&XMAS_ON?'plain':null);ls('uc-bg',null)}else ls('uc-bg',k);apply();track('stadium_pick',{bg:k});pkSame=true;openPicker()}});
 // Kit unlocks get a card pack on the results screen. Each kit has an answer level (same names and colours as scoring).
 const KLV={'xm-reindeer':0,'xm-jumper':1,'xm-snowman':2,'xm-tree':3,'xm-star':3,'xm-santa':4,'hw-stripes':0,'hw-candy':1,'hw-night':2,'hw-slime':3,'hw-skeleton':3,'hw-lantern':4,stripes:0,hoops:0,ref:0,candy:0,keeper:0,sash:1,halves:1,night:1,pin:1,quarters:1,fire:1,shadow:4,checks:2,hat3:2,dots:2,toxic:2,ice:2,perfect:2,leopard:3,zebra:3,galaxy:3,ocean:3,sunset:3,camo:3,lava:3,chrome:4,rainbow:4,tiedye:4,gold:4,mud:0,bee:0,tartan:1,retro:1,straw:2,aurora:3,matrix:3,glitch:3,royal:4,goat:4};
 const KLC=TIER_COLS.concat('#ff7ac8'),KLN=TIERS.map(t=>t[1]).concat('Mythic');window.ucKitInfo={KLV,KLC,KLN};
